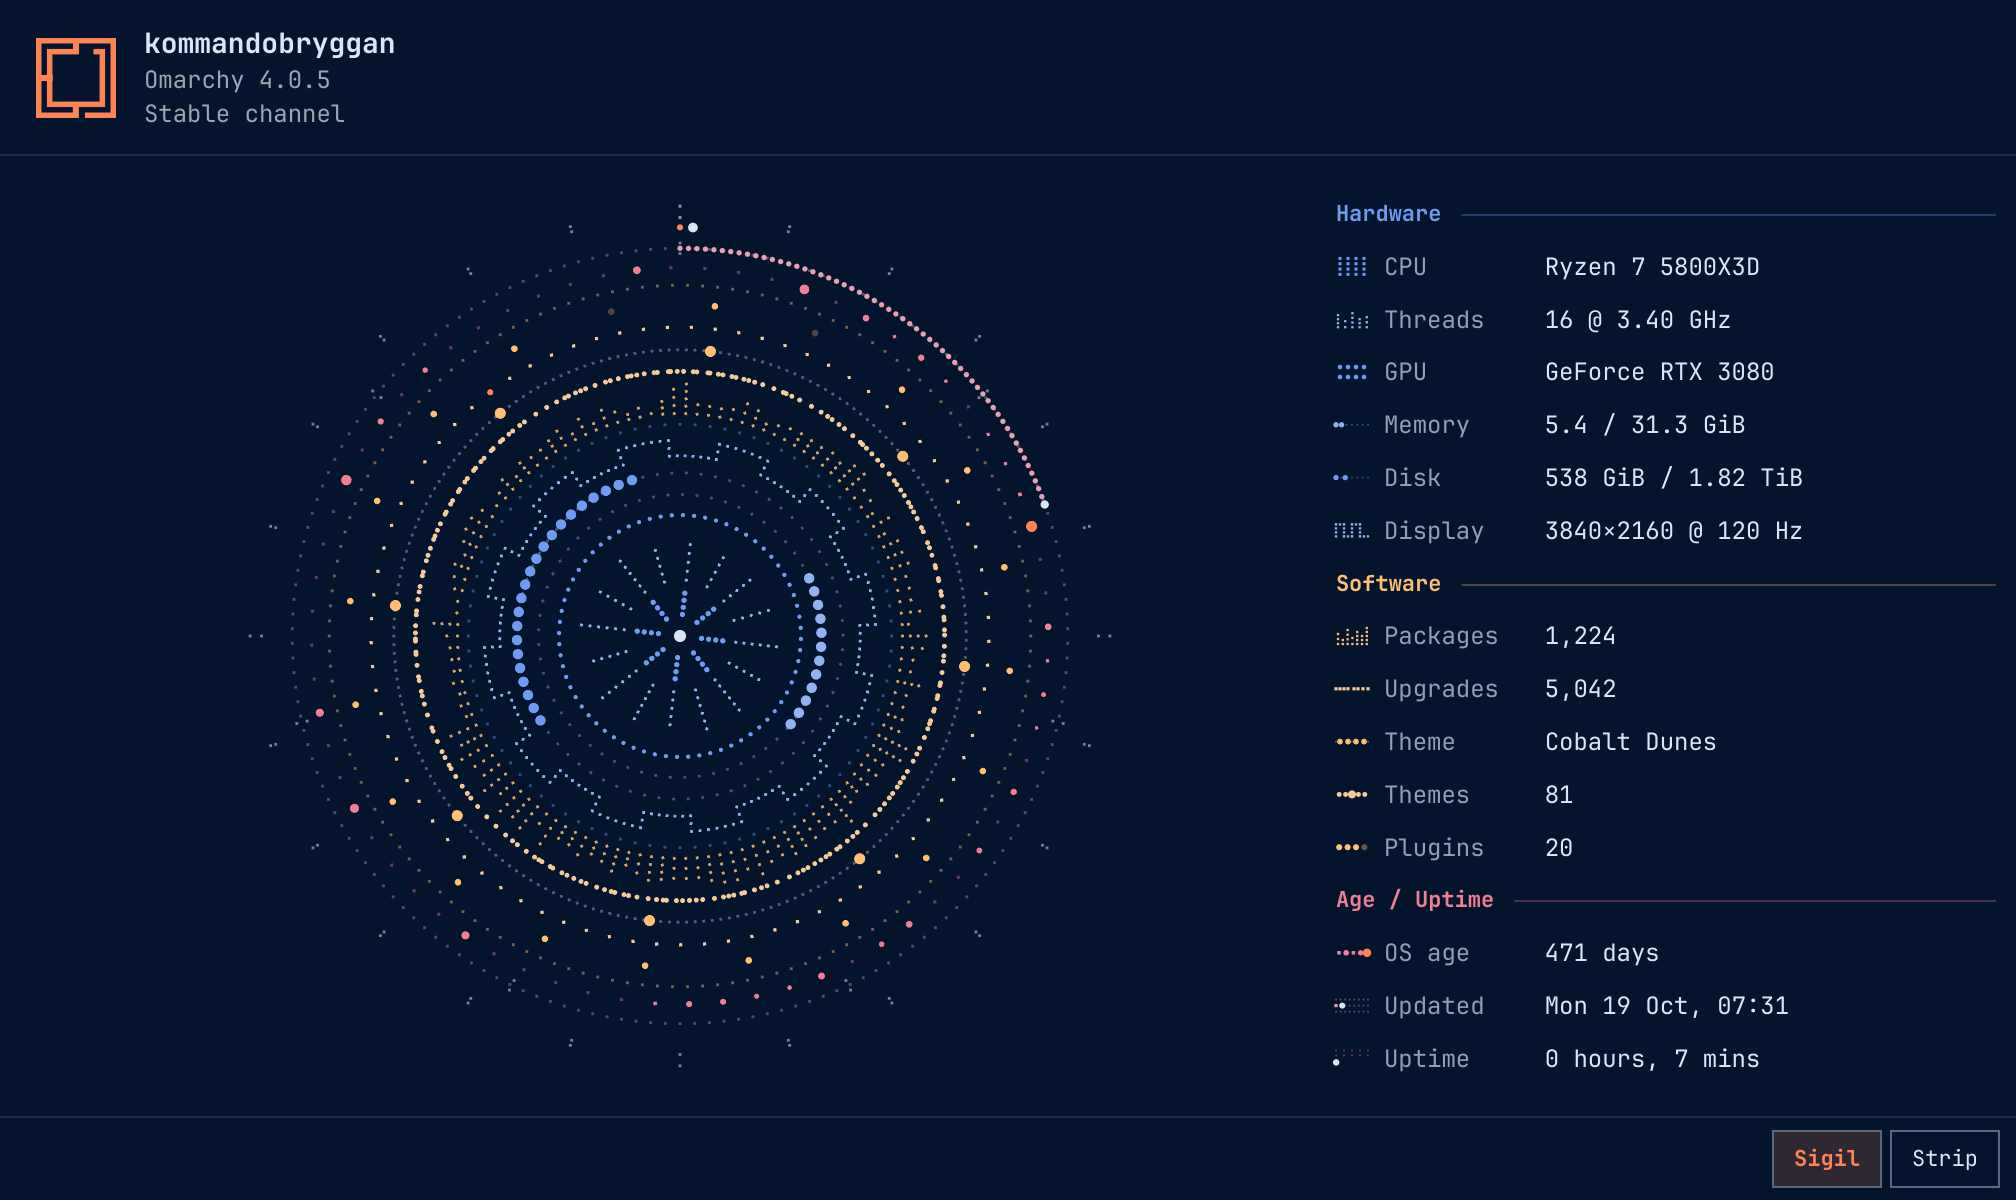
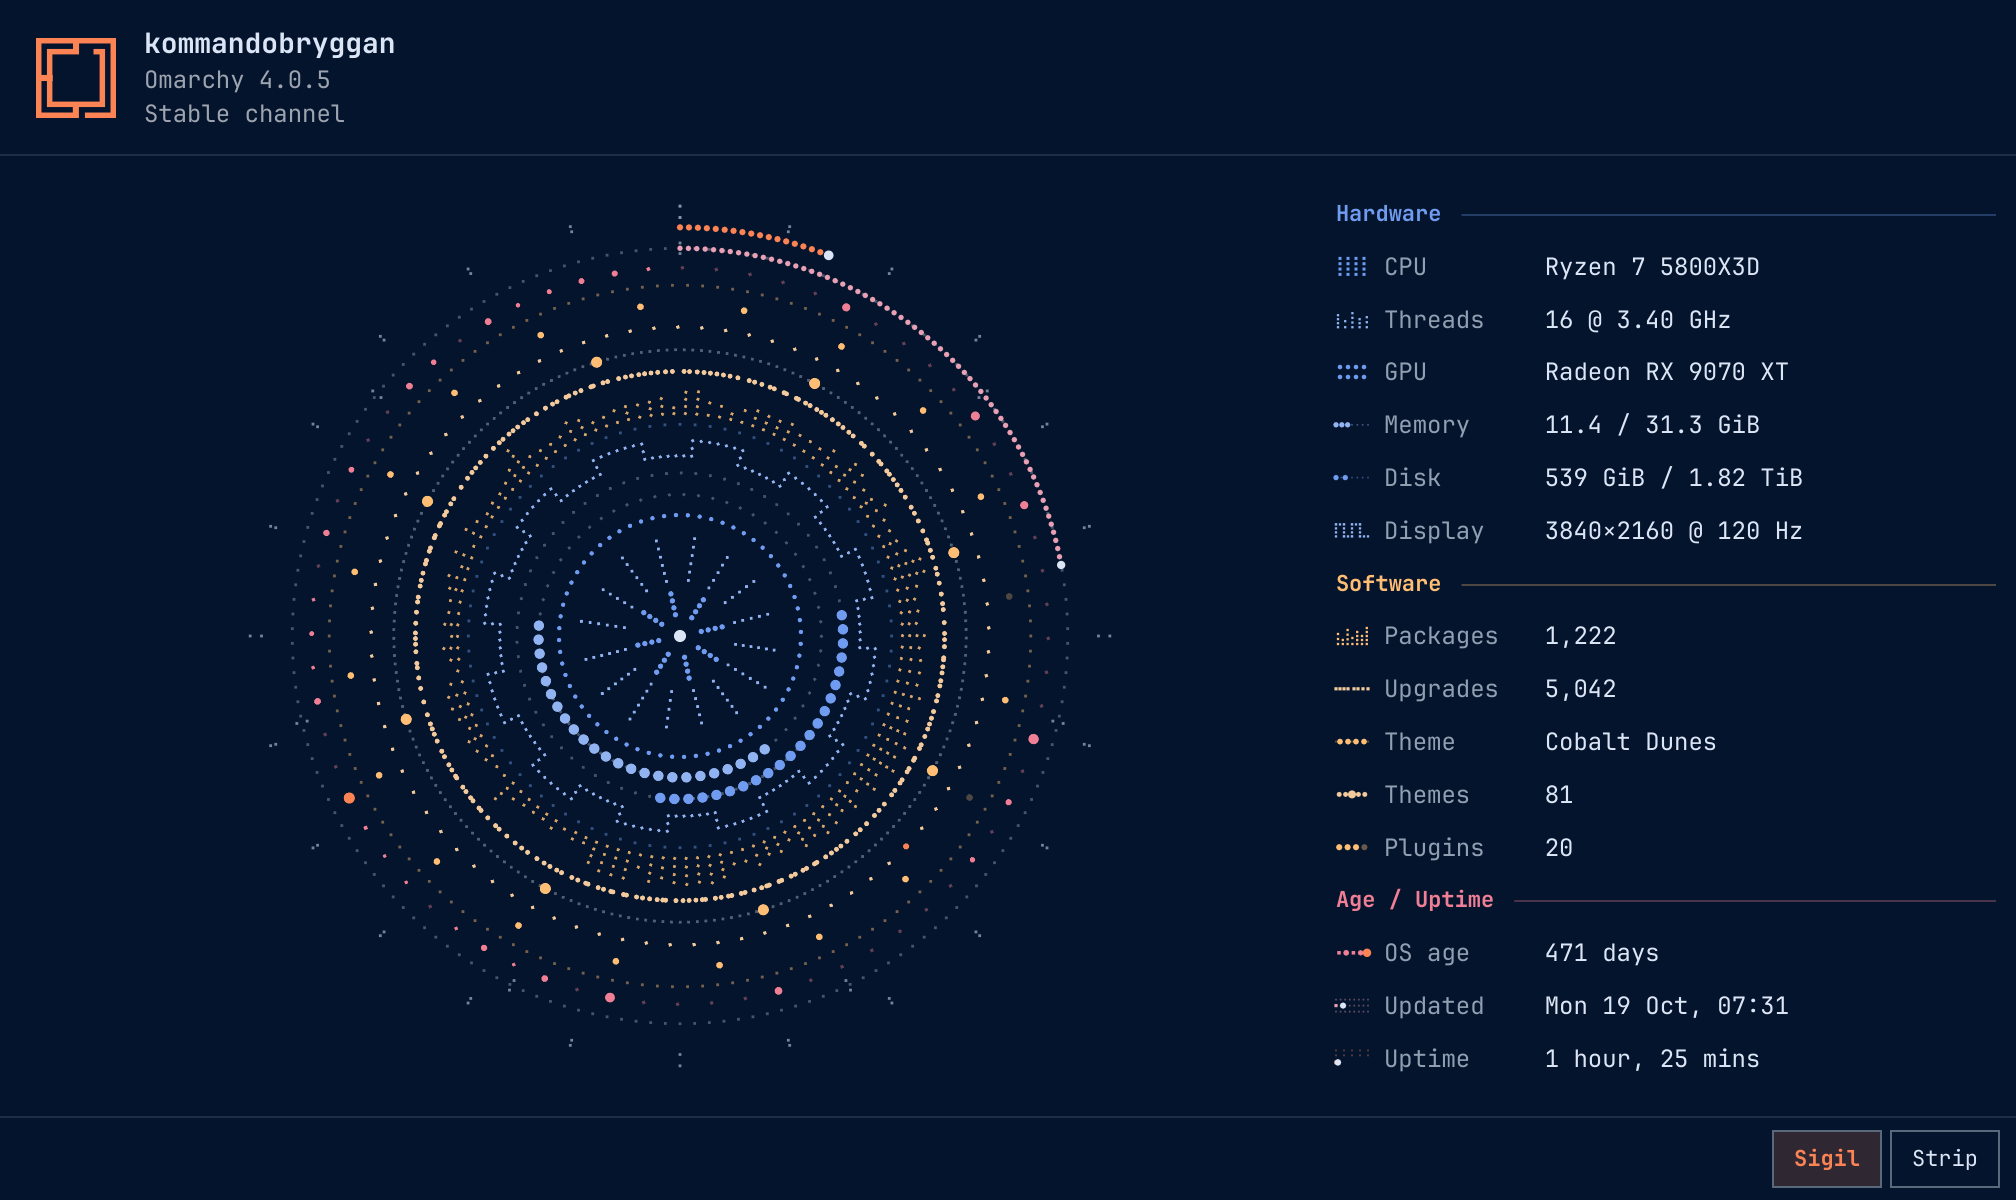
GPU dots per compute block on every maker; README remove section
fastfetch's GPU core count is CUDA cores on NVIDIA but compute units on
AMD and execution units on Intel, so an RX 9070 XT (64 CUs) drew one dot
and said "64 shader cores". The helper now passes the driver, and a dot
is one block of about the same size on each: 128 CUDA cores, one compute
unit, or 8 execution units. Other drivers draw their VRAM. A discrete GPU
is now picked before an integrated one, since the counts aren't comparable.

README: Remove section (marketplace requirement); the About menu line falls
back when the plugin is off, not only when removed (summon prints "ok");
package order is by last install or upgrade (pacman moves the date on
upgrades); wording on what the helper writes and when it reads; gawk
listed. New preview from the current machine.

diff --git a/Sigil.js b/Sigil.js
@@ -120,8 +120,9 @@ function facts(m, elapsed) {
     f.mem = m.memory.total > 0 ? (m.memory.used || 0) / m.memory.total : 0
     f.disk = m.disk.total > 0 ? (m.disk.used || 0) / m.disk.total : 0
     f.pulses = m.display.hz > 0 ? Math.max(1, Math.round(m.display.hz / 10)) : 0
-    f.gpuBy = m.gpu.cores ? "cores" : m.gpu.vram ? "vram" : ""
-    f.squares = m.gpu.cores ? Math.round(m.gpu.cores / 128) : m.gpu.vram ? Math.round(m.gpu.vram / GIB) : 0
+    f.gpuUnit = m.gpu.cores ? GPU_UNITS[m.gpu.driver] || null : null
+    f.gpuBy = f.gpuUnit ? "cores" : m.gpu.vram ? "vram" : ""
+    f.squares = f.gpuUnit ? Math.max(1, Math.round(m.gpu.cores / f.gpuUnit.per)) : m.gpu.vram ? Math.round(m.gpu.vram / GIB) : 0
     f.squares = clamp(f.squares, 0, 192)
     f.weeks = Math.ceil(f.days / 7)
     // How much each mark of the counted rings stands for, and how many marks.
@@ -132,6 +133,19 @@ function facts(m, elapsed) {
     f.pkgSizes = !!(m.packages.sizes && m.packages.sizes.length)
     f.weekly = !!(m.upgradesByWeek && m.upgradesByWeek.length)
     return f
+}
+
+// fastfetch's GPU core count is a different unit for each driver: NVIDIA's
+// CUDA cores, AMD's compute units (64 shader cores each), Intel's execution
+// units (8 lanes each). A dot is one block of about that size: 128 CUDA
+// cores (an SM), one compute unit, 8 execution units. Other drivers' counts
+// (nouveau, asahi) aren't comparable, so those draw their VRAM instead.
+var GPU_UNITS = {
+    nvidia: { per: 128, word: "core", long: "shader cores" },
+    amdgpu: { per: 1, word: "CU", long: "compute units" },
+    radeon: { per: 1, word: "CU", long: "compute units" },
+    i915:   { per: 8, word: "EU", long: "execution units" },
+    xe:     { per: 8, word: "EU", long: "execution units" }
 }
 
 // A counted ring gets coarser once its count would crowd it: a mark then
@@ -184,7 +198,7 @@ function fact(k, m, f, themeName) {
         if (!m.cpu.threads) return none
         return { s: count(m.cpu.threads, "thread"), l: m.cpu.threads + (m.cpu.mhz ? " @ " + (m.cpu.mhz / 1000).toFixed(2) + " GHz" : "") }
     case "gpu":
-        if (f.gpuBy === "cores") return { s: num(m.gpu.cores) + " cores", l: m.gpu.name || UNKNOWN }
+        if (f.gpuBy === "cores") return { s: count(m.gpu.cores, f.gpuUnit.word), l: m.gpu.name || UNKNOWN }
         if (f.gpuBy === "vram") return { s: size(m.gpu.vram), l: m.gpu.name || UNKNOWN }
         return { s: m.gpu.type ? m.gpu.type.toLowerCase() : UNKNOWN, l: m.gpu.name || UNKNOWN }
     case "mem":
@@ -236,7 +250,7 @@ function say(k, m, f, themeName) {
         if (!m.cpu.threads) return "The CPU didn't report its threads."
         return "It runs " + count(m.cpu.threads, "thread") + (m.cpu.mhz ? " at " + (m.cpu.mhz / 1000).toFixed(2) + " GHz" : "") + ". " + (f.per.threads === 1 ? "Each thread is one line of dots." : "Each line of dots is " + f.per.threads + " threads.")
     case "gpu":
-        if (f.gpuBy === "cores") return "Your " + m.gpu.name + " has " + num(m.gpu.cores) + " shader cores, one dot per 128."
+        if (f.gpuBy === "cores") return "Your " + m.gpu.name + " has " + num(m.gpu.cores) + " " + f.gpuUnit.long + ", one dot " + (f.gpuUnit.per === 1 ? "each." : "per " + f.gpuUnit.per + ".")
             + (m.gpu.usage !== null && m.gpu.usage !== undefined ? " Its load right now is " + Math.round(m.gpu.usage) + "%." : "")
         if (f.gpuBy === "vram") return "Your " + m.gpu.name + " has " + size(m.gpu.vram) + " of video memory, one dot per GiB."
         return "The GPU didn't report its cores or memory, so there are no dots."
@@ -251,8 +265,8 @@ function say(k, m, f, themeName) {
         return "Your " + (m.display.inches ? Math.round(m.display.inches) + "″ " : "") + "display runs at " + Math.round(m.display.hz) + " Hz. Each pulse in the wave is 10 Hz."
     case "pkgs":
         if (m.packages.pacman === null || m.packages.pacman === undefined) return "Packages weren't reported."
-        return "You have " + num(m.packages.pacman) + " pacman packages" + (m.packages.other ? ", plus " + num(m.packages.other) + " from Flatpak and AppImage" : "") + ". "
-            + (f.pkgSizes ? "Each line is " + f.per.pkgs + " in install order; taller ones are bigger." : "Each line of dots is " + f.per.pkgs + " packages.")
+        return "You have " + num(m.packages.pacman) + " pacman packages" + (m.packages.other ? " and " + num(m.packages.other) + " others" : "") + ". "
+            + (f.pkgSizes ? "Each line is " + f.per.pkgs + ", by last install or upgrade; taller ones are bigger." : "Each line of dots is " + f.per.pkgs + " packages.")
     case "upd": return num(m.upgrades) + " packages have been upgraded" + (m.installed > 0 ? " since " + day(m.installed) : "") + ". Each short run of dots is " + num(f.per.upd) + " upgrades."
     case "theme":
         var all = m.themes && m.themes.count
@@ -296,7 +310,7 @@ function geometry(m) {
     }
     // Where the helper read them, package lines and age dots come from the
     // machine's own history instead of the seed: each line's height is the
-    // disk space of its packages (in install order, on a log scale), each
+    // disk space of its packages (by last install or upgrade, on a log scale), each
     // dot's size the upgrades in its weeks.
     if (f.pkgSizes && g.tick.length) {
         var logs = groups(m.packages.sizes, g.tick.length, 1).map(function(v) { return Math.log(1 + v) })
@@ -355,8 +369,8 @@ function marks(k, s) {
             out.push({ d: "tick", u: (j + 0.5) / n, w0: -1, w1: -1 + 2 * lerp(0.8, 0.3 + 0.7 * g.spoke[j % g.spoke.length], vary), lw: f.per.threads > 1 ? 1.7 : 1, col: C })
         break
     case "gpu":
-        // A still count, like the cores: one dot per 128 shader cores (or
-        // per GiB of VRAM). Not a load gauge: kneading the window itself
+        // A still count, like the cores: one dot per block of shader cores
+        // (GPU_UNITS), or per GiB of VRAM. Not a load gauge: kneading the window itself
         // loads the GPU, so a live gauge filled in at the end of every knead.
         n = f.squares
         var sz = clamp(1.3 * Math.sqrt(68 / Math.max(1, n)), 0.95, 2.6)

diff --git a/README.md b/README.md
@@ -4,8 +4,8 @@ Omarchy's About window as a sigil drawn from your machine's real specs, every ma
 
 ![Machine Mark's sigil in the Cobalt Dunes theme, with the list of facts beside it](preview.png)
 
-- **Hardware** (blue): a short line of dots per CPU core, a line of dots per thread, a dot per 128 GPU shader cores, memory and disk as rows of large dots, a pulse per 10 Hz of the display.
-- **Software** (yellow): a line of dots per 10 packages in the order you installed them, taller for the ones that take more disk, a short run of dots per 40 upgrades in pacman's log, 8 dots for your theme's terminal colours, a dot per installed theme, a dot per plugin (faint when it's off).
+- **Hardware** (blue): a short line of dots per CPU core, a line of dots per thread, a dot per block of GPU shader cores (128 on NVIDIA, a compute unit on AMD, 8 execution units on Intel), memory and disk as rows of large dots, a pulse per 10 Hz of the display.
+- **Software** (yellow): a line of dots per 10 packages in the order they were last installed or upgraded, taller for the ones that take more disk, a short run of dots per 40 upgrades in pacman's log, 8 dots standing for your theme's terminal colours, a dot per installed theme, a dot per plugin (faint when it's off).
 - **Age / Uptime** (pink): a dot per week since install, bigger for the weeks you upgraded more, a one-week dial for the time since the last update, and a 24-hour dial for uptime.
 
 On a big or old machine a ring that would crowd gets coarser: a line per 4 cores, a run per 200 upgrades, a dot per 2 weeks. Hover a ring and the footer says what each mark stands for.
@@ -27,10 +27,18 @@ omarchy-shell shell summon io.github.erikrjohansson.machine-mark '{}'
 To open it from **Super + Space → About** instead of the terminal version, add this line inside `~/.config/omarchy/extensions/omarchy-menu.jsonc`:
 
 ```jsonc
-"about": {"icon":"","label":"About","action":"[[ -d $HOME/.config/omarchy/plugins/io.github.erikrjohansson.machine-mark ]] && omarchy-shell shell summon io.github.erikrjohansson.machine-mark '{}' || omarchy-launch-about"},
+"about": {"icon":"","label":"About","action":"[[ $(omarchy-shell shell summon io.github.erikrjohansson.machine-mark '{}' 2>/dev/null) == ok ]] || omarchy-launch-about"},
 ```
 
-If the plugin is removed, the line falls back to the original About; remove the line to go back to it for good.
+If the plugin is switched off or removed, the line opens the original About instead.
+
+## Remove
+
+```bash
+omarchy plugin remove io.github.erikrjohansson.machine-mark
+```
+
+If you added the About line to `~/.config/omarchy/extensions/omarchy-menu.jsonc`, delete it as well. Left in, it simply opens the original About.
 
 ## Use
 
@@ -43,7 +51,7 @@ If the plugin is removed, the line falls back to the original About; remove the 
 
 ## What it reads
 
-The `machine-mark` helper reads, and never changes anything:
+The `machine-mark` helper only reads: it changes no settings and writes no files of its own. It reads:
 
 - `fastfetch` (CPU, GPU, memory, disk, display, packages, kernel, Hyprland)
 - `/var/log/pacman.log` (upgrades in the log, per week, and the time of the last one)
@@ -53,11 +61,11 @@ The `machine-mark` helper reads, and never changes anything:
 - the shell's plugin list (the plugins you added, and which are on)
 - `omarchy-version`, `omarchy-version-channel`, `omarchy-theme-current`
 
-While the window is open it reads memory, GPU load and uptime again every 4 seconds. Nothing leaves the machine. If `fastfetch` or `jq` is missing the window says so; facts fastfetch doesn't report show as "unknown".
+It reads once a few seconds after the shell starts and again after a theme switch, so About opens with the facts ready. While the window is open it reads memory, GPU load and uptime again every 4 seconds. Nothing leaves the machine. If `fastfetch` or `jq` is missing the window says so; facts fastfetch doesn't report show as "unknown".
 
 ## Requirements
 
-Omarchy 4 (Quickshell shell), `fastfetch`, `jq`.
+Omarchy 4 (Quickshell shell), `fastfetch`, `jq`, `gawk` (part of every Arch install).
 
 ## License
 
